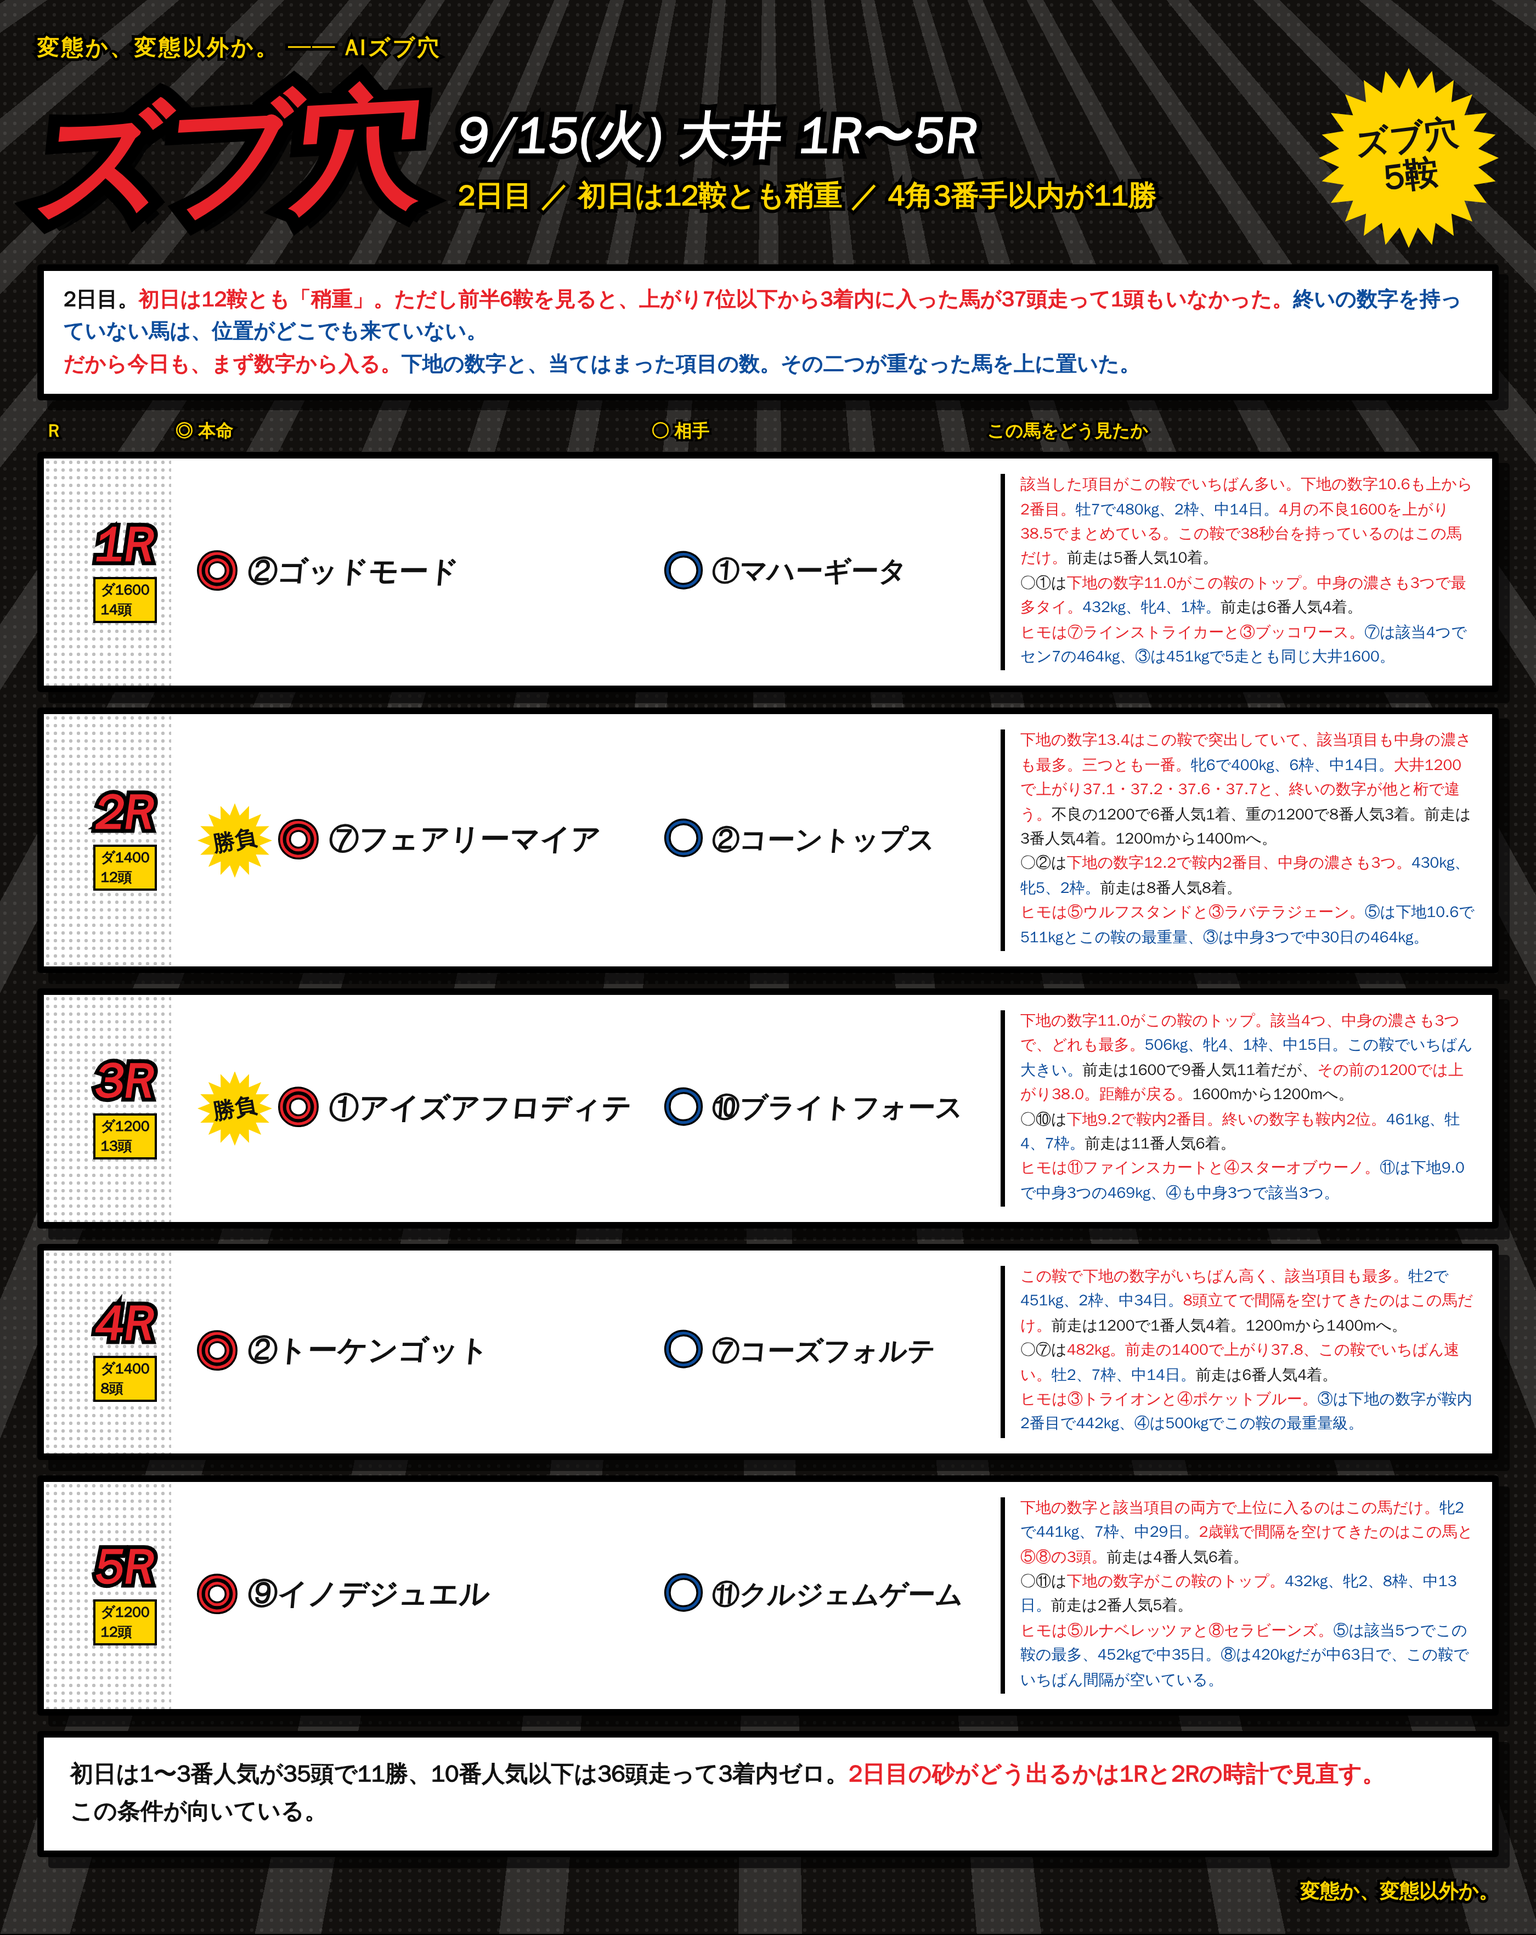
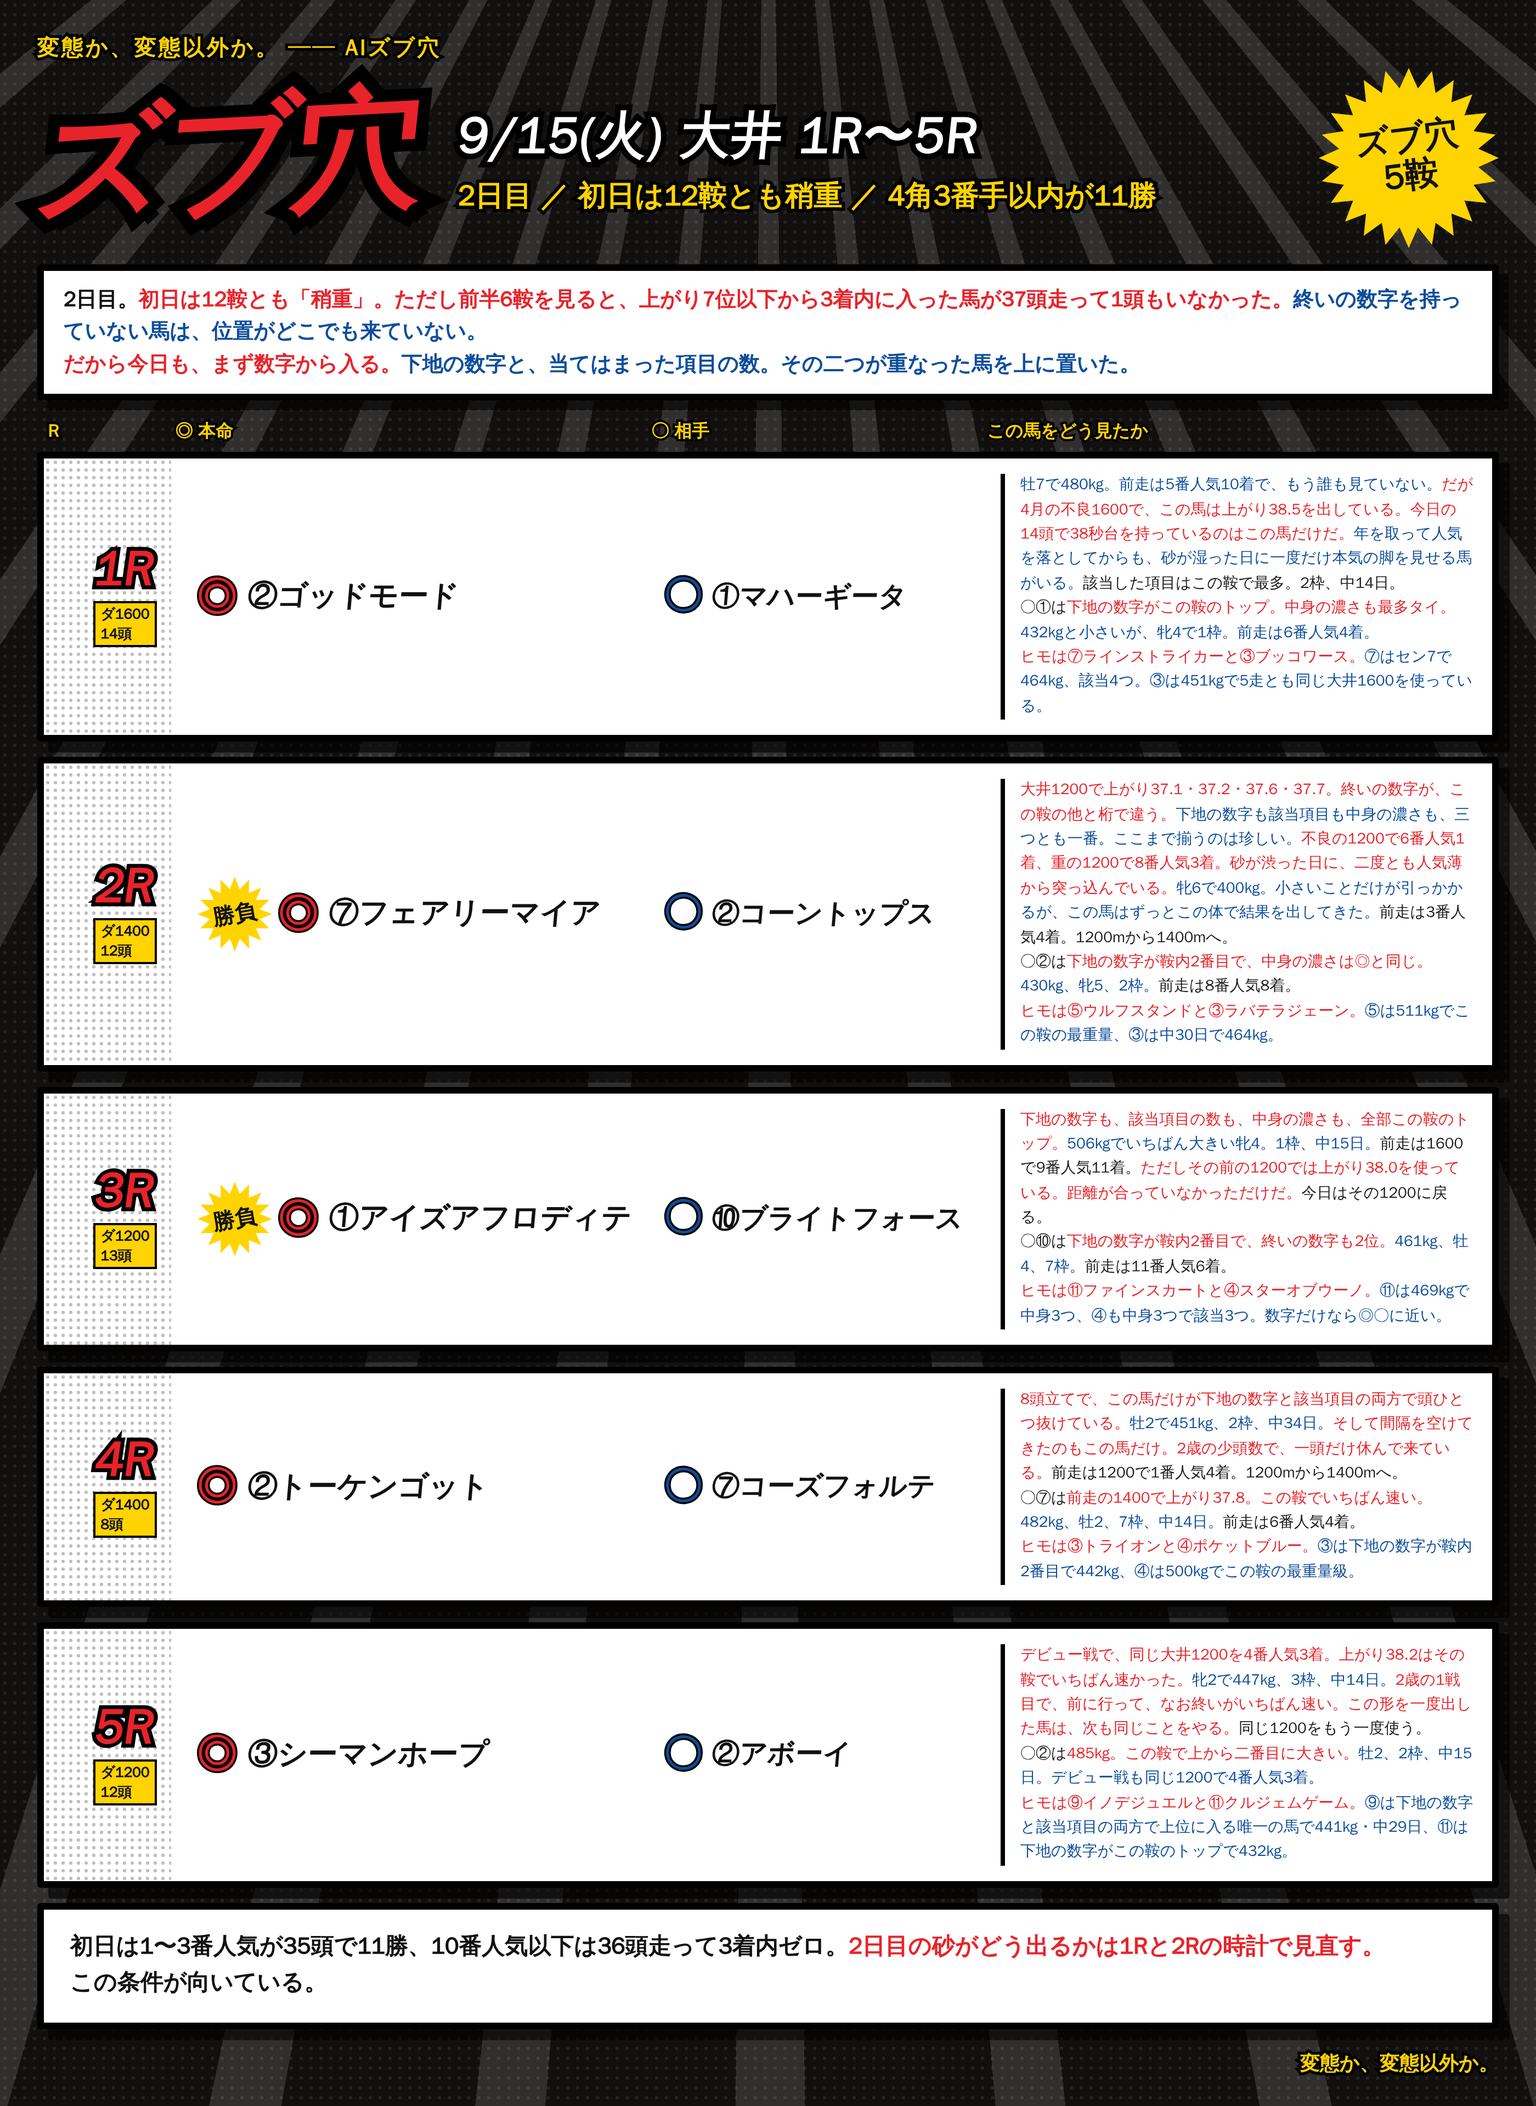
大井 9/15: 5Rを◎③シーマンホープ ○②アボーイに。説明文を書き直し
Claude-Session: https://claude.ai/code/session_01RoHscZkr96FNaxQWvUqgEw

diff --git a/notes/live/2026-09-15/oi_1_5.html b/notes/live/2026-09-15/oi_1_5.html
@@ -81,11 +81,11 @@
 <div class="head"><div class="gekiga">ズブ穴</div><div class="dateblk"><div class="d1">9/15(火) 大井 1R〜5R</div><div class="d2">2日目 ／ 初日は12鞍とも稍重 ／ 4角3番手以内が11勝</div></div><div class="burst"><span>ズブ穴<br>5鞍</span></div></div>
 <div class="lead">2日目。<span class="r">初日は12鞍とも「稍重」。ただし前半6鞍を見ると、上がり7位以下から3着内に入った馬が37頭走って1頭もいなかった。</span><span class="b">終いの数字を持っていない馬は、位置がどこでも来ていない。</span><br><span class="r">だから今日も、まず数字から入る。</span><span class="b">下地の数字と、当てはまった項目の数。その二つが重なった馬を上に置いた。</span></div>
 <div class="cols"><div class="cR">R</div><div class="cH">◎ 本命</div><div class="cA">○ 相手</div><div class="cM">この馬をどう見たか</div></div>
-<div class="row"><div class="corner"></div><div class="rN"><div class="n">1R</div><div class="d">ダ1600<br>14頭</div></div><div class="hm"><span class="mk">◎</span><span class="nm">②ゴッドモード</span></div><div class="at"><span class="mk2">○</span><span class="nm2">①マハーギータ</span></div><div class="memo"><b class="r">該当した項目がこの鞍でいちばん多い。下地の数字10.6も上から2番目。</b><b>牡7で480kg、2枠、中14日。</b><b class="r">4月の不良1600を上がり38.5でまとめている。この鞍で38秒台を持っているのはこの馬だけ。</b>前走は5番人気10着。<br>○①は<b class="r">下地の数字11.0がこの鞍のトップ。中身の濃さも3つで最多タイ。</b><b>432kg、牝4、1枠。</b>前走は6番人気4着。<br><b class="r">ヒモは⑦ラインストライカーと③ブッコワース。</b><b>⑦は該当4つでセン7の464kg、③は451kgで5走とも同じ大井1600。</b></div></div>
-<div class="row"><div class="corner"></div><div class="rN"><div class="n">2R</div><div class="d">ダ1400<br>12頭</div></div><div class="hm"><div class="sb"><span>勝負</span></div><span class="mk">◎</span><span class="nm">⑦フェアリーマイア</span></div><div class="at"><span class="mk2">○</span><span class="nm2">②コーントップス</span></div><div class="memo"><b class="r">下地の数字13.4はこの鞍で突出していて、該当項目も中身の濃さも最多。三つとも一番。</b><b>牝6で400kg、6枠、中14日。</b><b class="r">大井1200で上がり37.1・37.2・37.6・37.7と、終いの数字が他と桁で違う。</b>不良の1200で6番人気1着、重の1200で8番人気3着。前走は3番人気4着。1200mから1400mへ。<br>○②は<b class="r">下地の数字12.2で鞍内2番目、中身の濃さも3つ。</b><b>430kg、牝5、2枠。</b>前走は8番人気8着。<br><b class="r">ヒモは⑤ウルフスタンドと③ラバテラジェーン。</b><b>⑤は下地10.6で511kgとこの鞍の最重量、③は中身3つで中30日の464kg。</b></div></div>
-<div class="row"><div class="corner"></div><div class="rN"><div class="n">3R</div><div class="d">ダ1200<br>13頭</div></div><div class="hm"><div class="sb"><span>勝負</span></div><span class="mk">◎</span><span class="nm">①アイズアフロディテ</span></div><div class="at"><span class="mk2">○</span><span class="nm2">⑩ブライトフォース</span></div><div class="memo"><b class="r">下地の数字11.0がこの鞍のトップ。該当4つ、中身の濃さも3つで、どれも最多。</b><b>506kg、牝4、1枠、中15日。この鞍でいちばん大きい。</b>前走は1600で9番人気11着だが、<b class="r">その前の1200では上がり38.0。距離が戻る。</b>1600mから1200mへ。<br>○⑩は<b class="r">下地9.2で鞍内2番目。終いの数字も鞍内2位。</b><b>461kg、牡4、7枠。</b>前走は11番人気6着。<br><b class="r">ヒモは⑪ファインスカートと④スターオブウーノ。</b><b>⑪は下地9.0で中身3つの469kg、④も中身3つで該当3つ。</b></div></div>
-<div class="row"><div class="corner"></div><div class="rN"><div class="n">4R</div><div class="d">ダ1400<br>8頭</div></div><div class="hm"><span class="mk">◎</span><span class="nm">②トーケンゴット</span></div><div class="at"><span class="mk2">○</span><span class="nm2">⑦コーズフォルテ</span></div><div class="memo"><b class="r">この鞍で下地の数字がいちばん高く、該当項目も最多。</b><b>牡2で451kg、2枠、中34日。</b><b class="r">8頭立てで間隔を空けてきたのはこの馬だけ。</b>前走は1200で1番人気4着。1200mから1400mへ。<br>○⑦は<b class="r">482kg。前走の1400で上がり37.8、この鞍でいちばん速い。</b><b>牡2、7枠、中14日。</b>前走は6番人気4着。<br><b class="r">ヒモは③トライオンと④ポケットブルー。</b><b>③は下地の数字が鞍内2番目で442kg、④は500kgでこの鞍の最重量級。</b></div></div>
-<div class="row"><div class="corner"></div><div class="rN"><div class="n">5R</div><div class="d">ダ1200<br>12頭</div></div><div class="hm"><span class="mk">◎</span><span class="nm">⑨イノデジュエル</span></div><div class="at"><span class="mk2">○</span><span class="nm2">⑪クルジェムゲーム</span></div><div class="memo"><b class="r">下地の数字と該当項目の両方で上位に入るのはこの馬だけ。</b><b>牝2で441kg、7枠、中29日。</b><b class="r">2歳戦で間隔を空けてきたのはこの馬と⑤⑧の3頭。</b>前走は4番人気6着。<br>○⑪は<b class="r">下地の数字がこの鞍のトップ。</b><b>432kg、牝2、8枠、中13日。</b>前走は2番人気5着。<br><b class="r">ヒモは⑤ルナベレッツァと⑧セラビーンズ。</b><b>⑤は該当5つでこの鞍の最多、452kgで中35日。⑧は420kgだが中63日で、この鞍でいちばん間隔が空いている。</b></div></div>
+<div class="row"><div class="corner"></div><div class="rN"><div class="n">1R</div><div class="d">ダ1600<br>14頭</div></div><div class="hm"><span class="mk">◎</span><span class="nm">②ゴッドモード</span></div><div class="at"><span class="mk2">○</span><span class="nm2">①マハーギータ</span></div><div class="memo"><b>牡7で480kg。前走は5番人気10着で、もう誰も見ていない。</b><b class="r">だが4月の不良1600で、この馬は上がり38.5を出している。今日の14頭で38秒台を持っているのはこの馬だけだ。</b><b>年を取って人気を落としてからも、砂が湿った日に一度だけ本気の脚を見せる馬がいる。</b>該当した項目はこの鞍で最多。2枠、中14日。<br>○①は<b class="r">下地の数字がこの鞍のトップ。中身の濃さも最多タイ。</b><b>432kgと小さいが、牝4で1枠。前走は6番人気4着。</b><br><b class="r">ヒモは⑦ラインストライカーと③ブッコワース。</b><b>⑦はセン7で464kg、該当4つ。③は451kgで5走とも同じ大井1600を使っている。</b></div></div>
+<div class="row"><div class="corner"></div><div class="rN"><div class="n">2R</div><div class="d">ダ1400<br>12頭</div></div><div class="hm"><div class="sb"><span>勝負</span></div><span class="mk">◎</span><span class="nm">⑦フェアリーマイア</span></div><div class="at"><span class="mk2">○</span><span class="nm2">②コーントップス</span></div><div class="memo"><b class="r">大井1200で上がり37.1・37.2・37.6・37.7。終いの数字が、この鞍の他と桁で違う。</b><b>下地の数字も該当項目も中身の濃さも、三つとも一番。ここまで揃うのは珍しい。</b><b class="r">不良の1200で6番人気1着、重の1200で8番人気3着。砂が渋った日に、二度とも人気薄から突っ込んでいる。</b><b>牝6で400kg。小さいことだけが引っかかるが、この馬はずっとこの体で結果を出してきた。</b>前走は3番人気4着。1200mから1400mへ。<br>○②は<b class="r">下地の数字が鞍内2番目で、中身の濃さは◎と同じ。</b><b>430kg、牝5、2枠。</b>前走は8番人気8着。<br><b class="r">ヒモは⑤ウルフスタンドと③ラバテラジェーン。</b><b>⑤は511kgでこの鞍の最重量、③は中30日で464kg。</b></div></div>
+<div class="row"><div class="corner"></div><div class="rN"><div class="n">3R</div><div class="d">ダ1200<br>13頭</div></div><div class="hm"><div class="sb"><span>勝負</span></div><span class="mk">◎</span><span class="nm">①アイズアフロディテ</span></div><div class="at"><span class="mk2">○</span><span class="nm2">⑩ブライトフォース</span></div><div class="memo"><b class="r">下地の数字も、該当項目の数も、中身の濃さも、全部この鞍のトップ。</b><b>506kgでいちばん大きい牝4。1枠、中15日。</b>前走は1600で9番人気11着。<b class="r">ただしその前の1200では上がり38.0を使っている。距離が合っていなかっただけだ。</b>今日はその1200に戻る。<br>○⑩は<b class="r">下地の数字が鞍内2番目で、終いの数字も2位。</b><b>461kg、牡4、7枠。</b>前走は11番人気6着。<br><b class="r">ヒモは⑪ファインスカートと④スターオブウーノ。</b><b>⑪は469kgで中身3つ、④も中身3つで該当3つ。数字だけなら◎○に近い。</b></div></div>
+<div class="row"><div class="corner"></div><div class="rN"><div class="n">4R</div><div class="d">ダ1400<br>8頭</div></div><div class="hm"><span class="mk">◎</span><span class="nm">②トーケンゴット</span></div><div class="at"><span class="mk2">○</span><span class="nm2">⑦コーズフォルテ</span></div><div class="memo"><b class="r">8頭立てで、この馬だけが下地の数字と該当項目の両方で頭ひとつ抜けている。</b><b>牡2で451kg、2枠、中34日。</b><b class="r">そして間隔を空けてきたのもこの馬だけ。2歳の少頭数で、一頭だけ休んで来ている。</b>前走は1200で1番人気4着。1200mから1400mへ。<br>○⑦は<b class="r">前走の1400で上がり37.8。この鞍でいちばん速い。</b><b>482kg、牡2、7枠、中14日。</b>前走は6番人気4着。<br><b class="r">ヒモは③トライオンと④ポケットブルー。</b><b>③は下地の数字が鞍内2番目で442kg、④は500kgでこの鞍の最重量級。</b></div></div>
+<div class="row"><div class="corner"></div><div class="rN"><div class="n">5R</div><div class="d">ダ1200<br>12頭</div></div><div class="hm"><span class="mk">◎</span><span class="nm">③シーマンホープ</span></div><div class="at"><span class="mk2">○</span><span class="nm2">②アボーイ</span></div><div class="memo"><b class="r">デビュー戦で、同じ大井1200を4番人気3着。上がり38.2はその鞍でいちばん速かった。</b><b>牝2で447kg、3枠、中14日。</b><b class="r">2歳の1戦目で、前に行って、なお終いがいちばん速い。この形を一度出した馬は、次も同じことをやる。</b>同じ1200をもう一度使う。<br>○②は<b class="r">485kg。この鞍で上から二番目に大きい。</b><b>牡2、2枠、中15日。デビュー戦も同じ1200で4番人気3着。</b><br><b class="r">ヒモは⑨イノデジュエルと⑪クルジェムゲーム。</b><b>⑨は下地の数字と該当項目の両方で上位に入る唯一の馬で441kg・中29日、⑪は下地の数字がこの鞍のトップで432kg。</b></div></div>
 <div class="foot"><b>初日は1〜3番人気が35頭で11勝、10番人気以下は36頭走って3着内ゼロ。</b><b class="r">2日目の砂がどう出るかは1Rと2Rの時計で見直す。</b><br><b>この条件が向いている。</b></div>
 <div class="sig">変態か、変態以外か。</div>
 </div></div></body></html>

diff --git a/notes/live/2026-09-15/README.md b/notes/live/2026-09-15/README.md
@@ -16,9 +16,9 @@
 | **2R【勝負】** | ダ1400 12頭 Ｃ３ | ⑦フェアリーマイア | ②コーントップス | ⑤ウルフスタンド ③ラバテラジェーン |
 | **3R【勝負】** | ダ1200 13頭 Ｃ３ | ①アイズアフロディテ | ⑩ブライトフォース | ⑪ファインスカート ④スターオブウーノ |
 | 4R | ダ1400 8頭 2歳 | ②トーケンゴット | ⑦コーズフォルテ | ③トライオン ④ポケットブルー |
-| 5R | ダ1200 12頭 2歳 | ⑨イノデジュエル | ⑪クルジェムゲーム | ⑤ルナベレッツァ ⑧セラビーンズ |
+| 5R | ダ1200 12頭 2歳 | ③シーマンホープ | ②アボーイ | ⑨イノデジュエル ⑪クルジェムゲーム |
 
-◎はすべて前走で馬券になっていない馬から。勝負は2Rと3R。
+勝負は2Rと3R。◎は1R〜4Rが前走で馬券になっていない馬から（5Rは指定で◎③・○②とも前走3着）。
 
 **位置取りに寄せ過ぎた版から、ズブ穴ファクター（399＋エッジ＋本物）を軸に組み直した。**
 初日の結果を見て4角位置を優先したが、それは9/9の川崎でやって外した組み方と同じだった。
@@ -29,5 +29,5 @@
 - 2R【勝負】◎⑦ 399=13.4 エッジ5 本物3 いずれも鞍内トップ（400kgだけが割引）／○② 399=12.2 本物3 430k／ヒモ⑤ 399=10.6 本物3 511k・③ 399=7.6 本物3 中30日 464k
 - 3R【勝負】◎① 399=11.0 エッジ4 本物3 いずれも鞍内トップ 506k／○⑩ 399=9.2 エッジ3 本物2 461k（終いの数字も鞍内2位）／ヒモ⑪ 399=9.0 本物3 469k・④ 399=8.9 エッジ3 本物3
 - 4R ◎② 399=5.0 エッジ3 ◎候補の最上位 451k 中34日／○⑦ 482k 前走1400で上がり37.8は鞍内最速／ヒモ③ 399=6.9（鞍内トップだが前走3着）・④ エッジ2 500k
-- 5R ◎⑨ 399=5.0 エッジ4 441k 中29日（399とエッジの両方で上位なのはこの馬だけ）／○⑪ 399=5.6 鞍内トップ 432k／ヒモ⑤ エッジ5 鞍内最多 452k 中35日・⑧ エッジ3 420k 中63日
+- 5R（指定）◎③ 399=0.0 エッジ2 447k 3枠（デビュー戦で同じ1200を4番人気3着・上がり38.2は組最速）／○② 399=0.4 485k 2枠／ヒモ⑨ 399=5.0 エッジ4 441k 中29日・⑪ 399=5.6 鞍内トップ 432k
 - 8歳（2R①スモモモモモモモモ・3R⑧ウォーバックス）と400kg台前半の小型は印から外した
